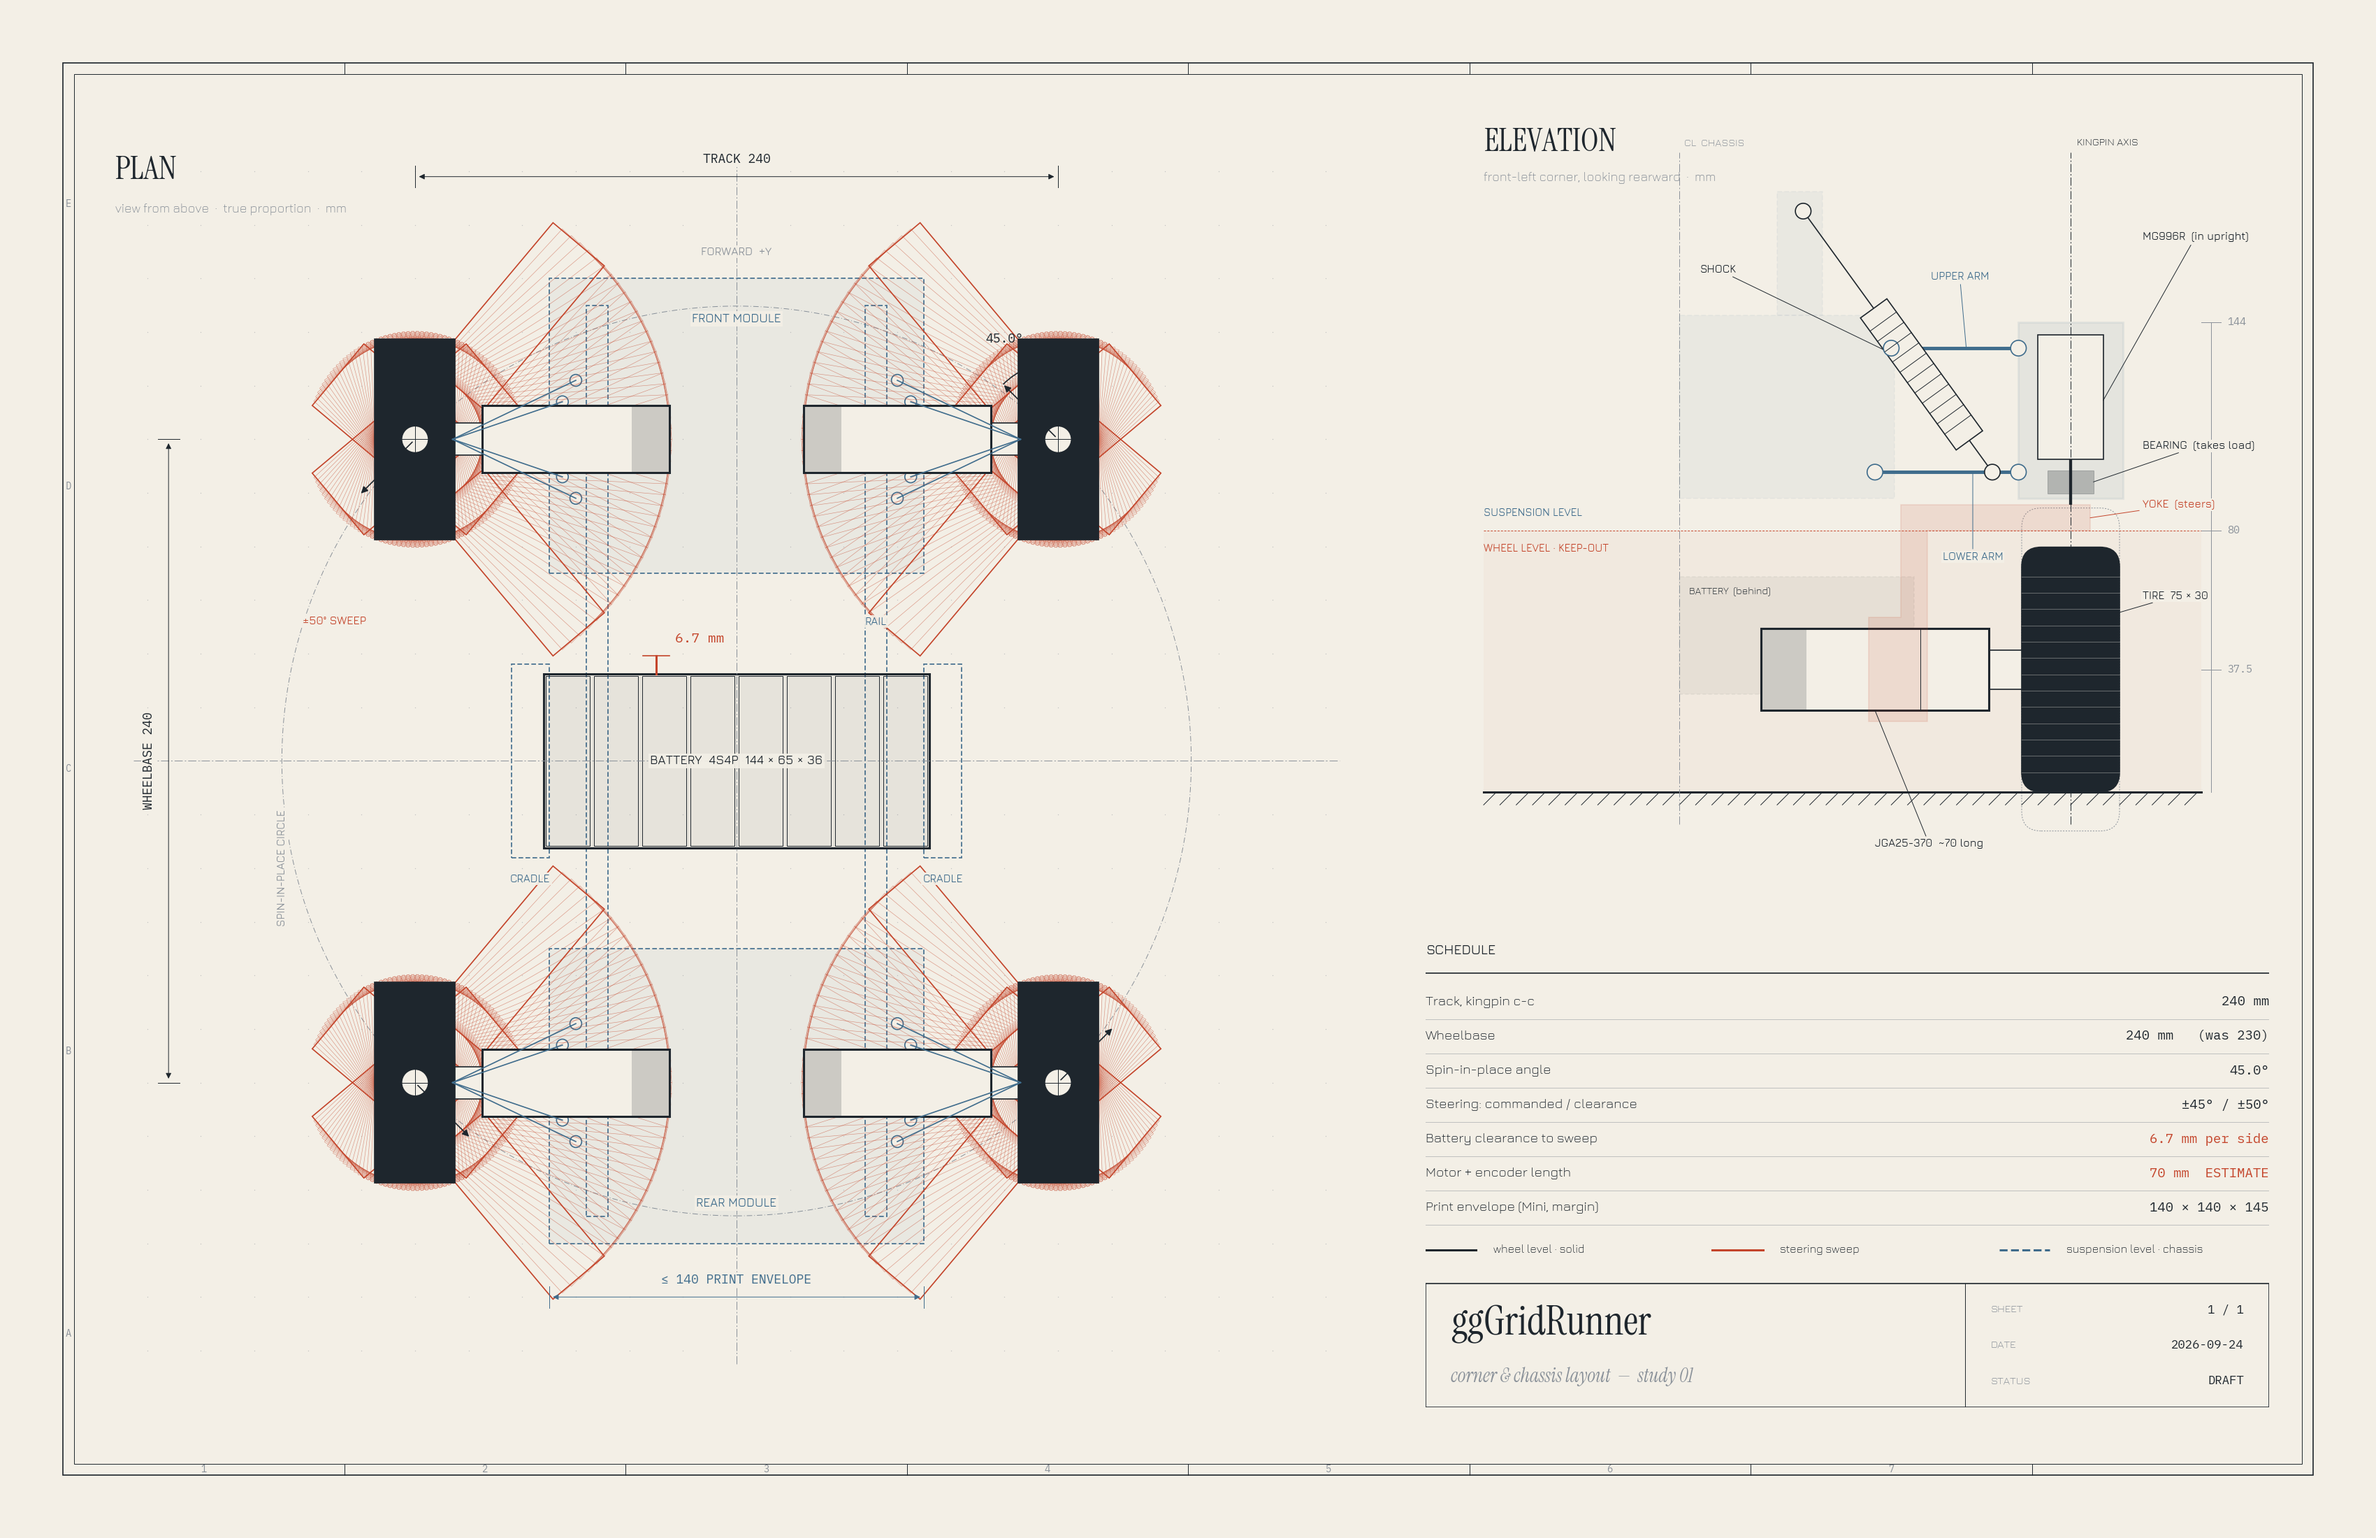
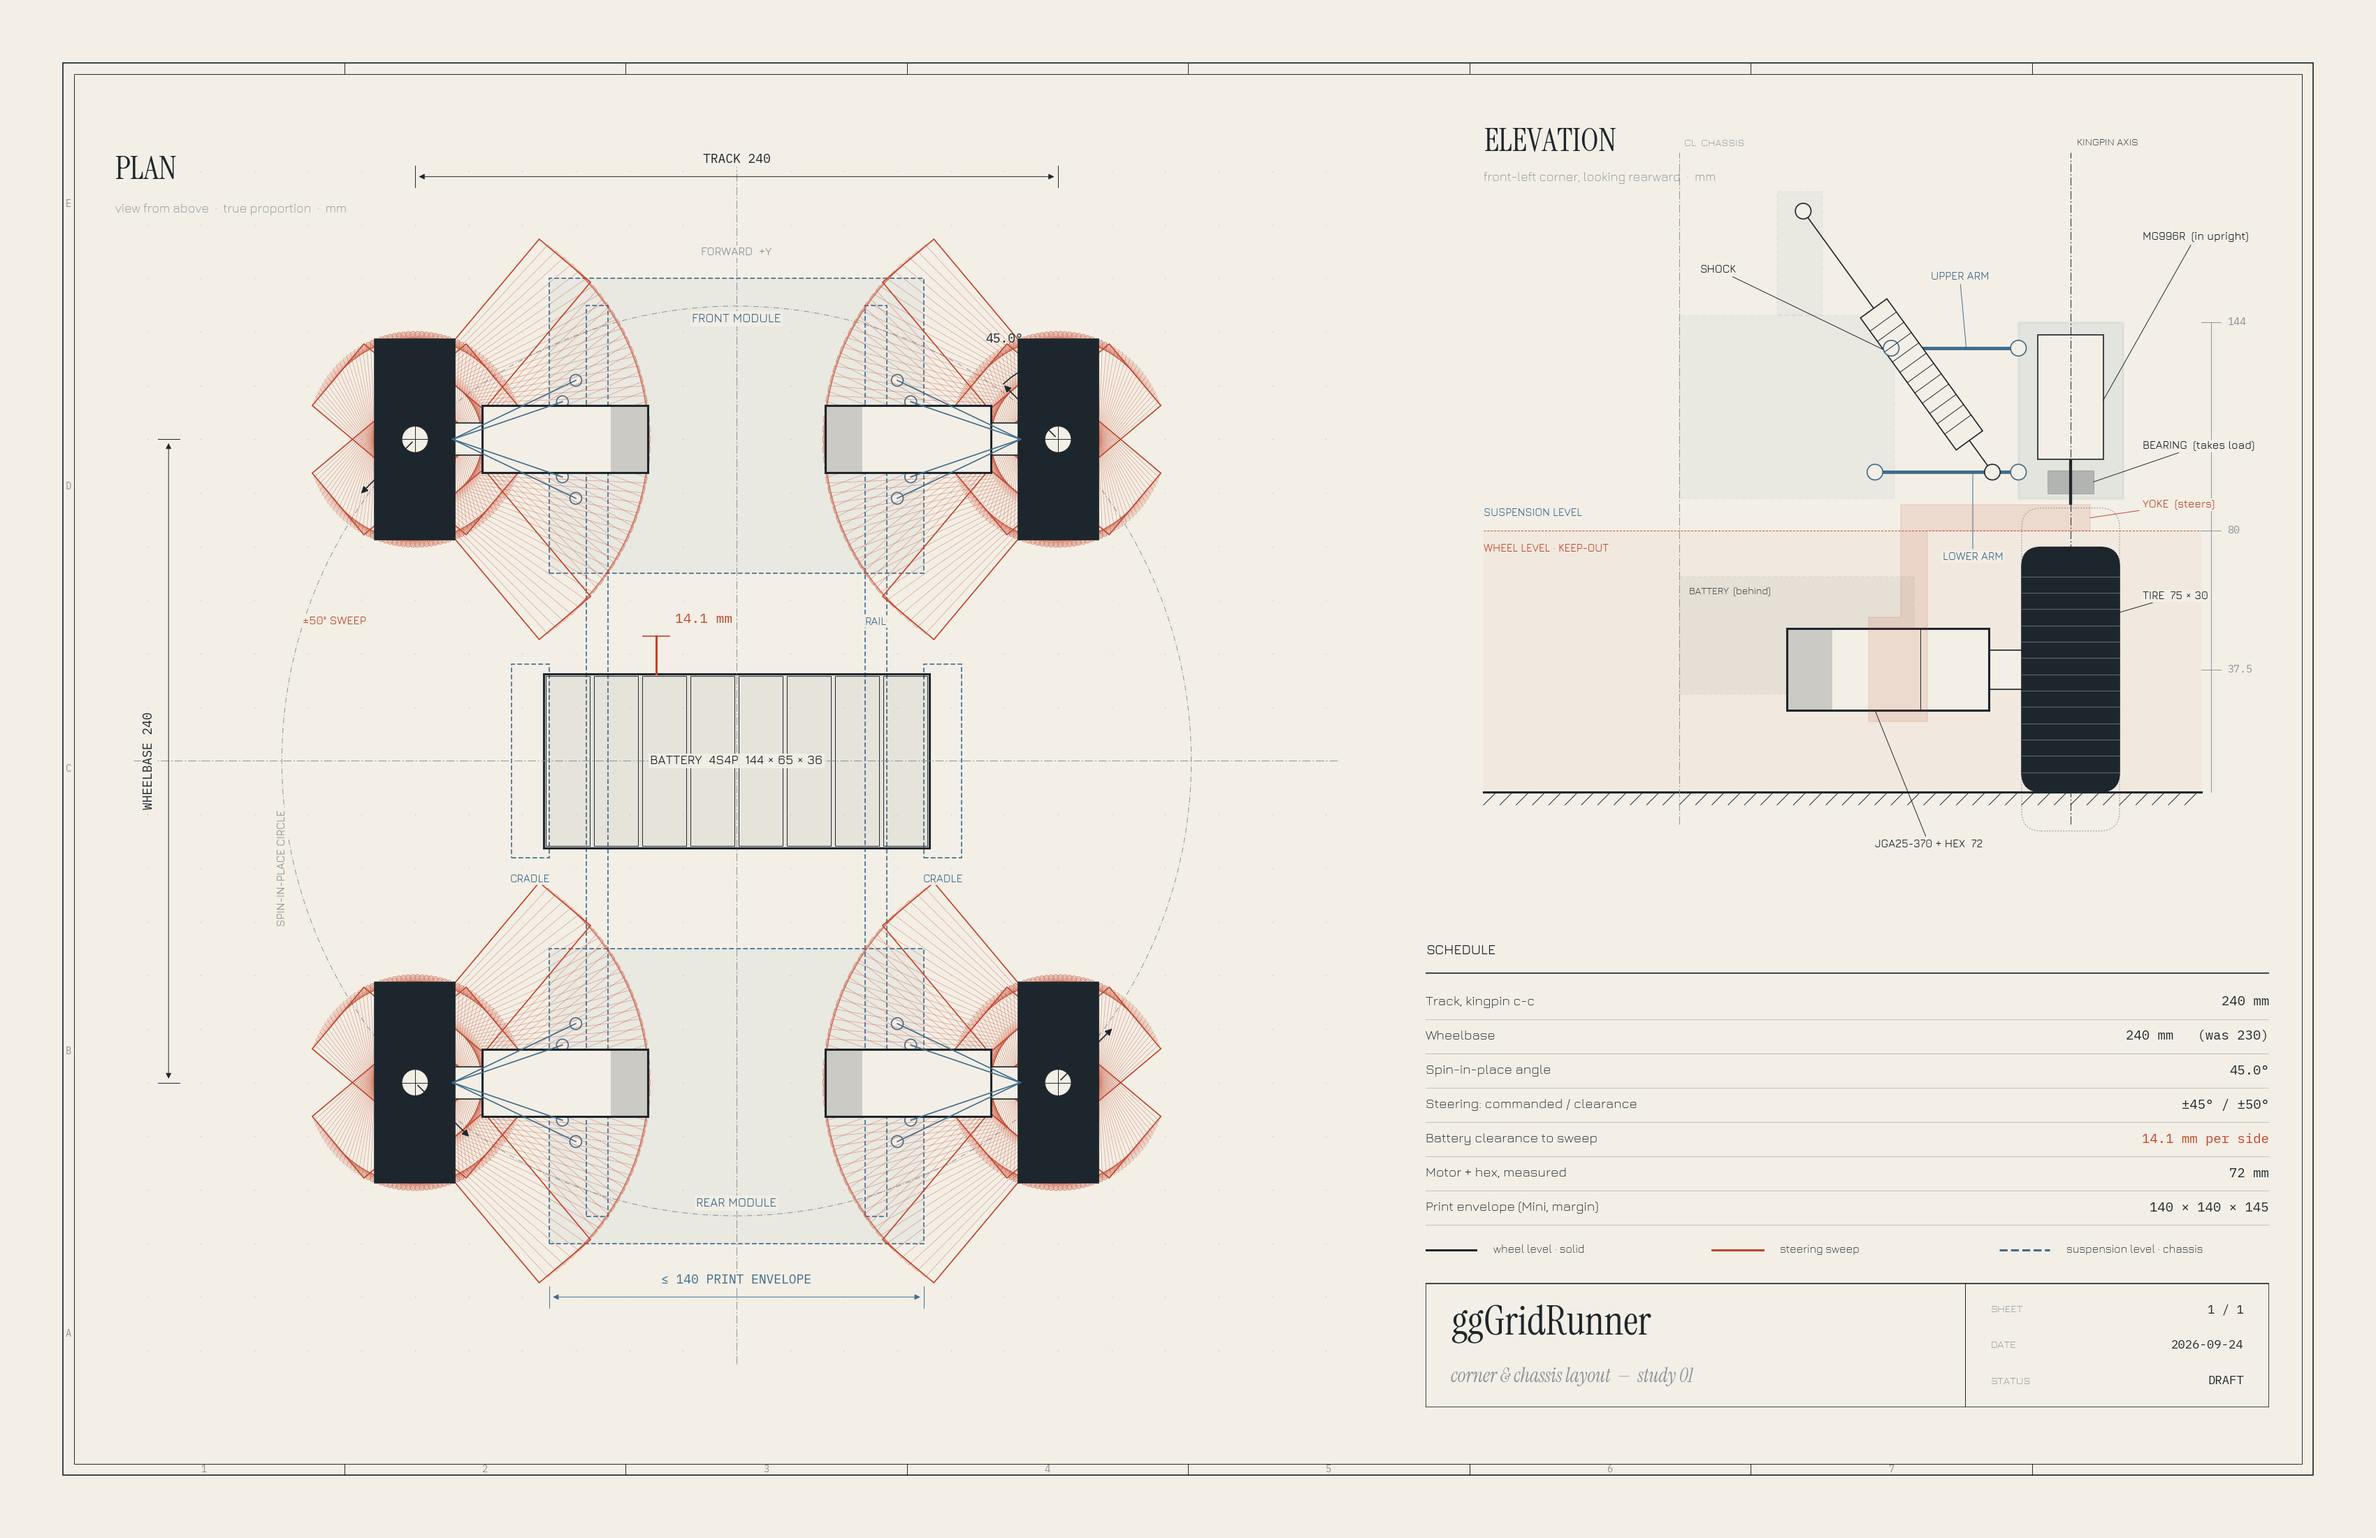
fix(simulation): use measured 72 mm motor+hex length in layout study
Battery clearance at 240x240 rises from 6.7 to 14.1 mm/side. Also fix
the font fallback: a bare "sans-serif" string was parsed as a
fontconfig pattern and crashed when the drafting fonts were absent.

diff --git a/simulation/corner_layout_study.py b/simulation/corner_layout_study.py
@@ -2,7 +2,7 @@
 
 Draws the +/-STEER sweep of each tire + motor unit (4WIS, one servo per corner) and
 reports how much the crosswise battery clears the nearest sweep. Parameters are
-design targets from the chassis brainstorm; MOTOR_L is an estimate until measured.
+design targets from the chassis brainstorm; motor + hex length (72 mm) is measured.
 
     python simulation/corner_layout_study.py
 """
@@ -25,7 +25,7 @@ def font(name, family="sans-serif"):
     if os.path.exists(path):
         fm.fontManager.addfont(path)
         return fm.FontProperties(fname=path)
-    return fm.FontProperties(family=family)
+    return fm.FontProperties(family=[family])
 
 
 LABEL = font("Jura-Light.ttf")
@@ -41,7 +41,7 @@ HAIR, THIN, MED = 0.35, 0.6, 1.1
 T, WB = 240.0, 240.0            # track, wheelbase (kingpin centres)
 TIRE_D, TIRE_W = 75.0, 30.0
 ADAPT = 10.0                    # 4 mm -> 12 mm hex adapter
-MOTOR_L, MOTOR_D = 70.0, 25.0   # JGA25-370 + encoder (ESTIMATE)
+MOTOR_L, MOTOR_D = 62.0, 25.0   # JGA25-370 + encoder; ADAPT + MOTOR_L = 72 measured
 STEER = 50.0                    # mechanical clearance, deg
 BAT_X, BAT_Y, BAT_Z = 144.0, 65.0, 36.0
 RIDE = 30.0
@@ -325,7 +325,7 @@ elab(KX + 10, 120, "MG996R  (in upright)", 142, 170)
 elab(KX + 7, UP0 + 5, "BEARING  (takes load)", 142, 106)
 elab(KX + 6, 84, "YOKE  (steers)", 142, 88, col=VERM)
 elab(KX + 15, 55, "TIRE  75 × 30", 142, 60)
-elab(KX - 60, AXLE - 12.5, f"JGA25-370  ~{MOTOR_L:.0f} long", 60, -16)
+elab(KX - 60, AXLE - 12.5, f"JGA25-370 + HEX  {ADAPT + MOTOR_L:.0f}", 60, -16)
 elab(90, LA_Z, "LOWER ARM", 90, 72, col=STEEL, ha="center")
 elab(88, UA_Z, "UPPER ARM", 86, 158, col=STEEL, ha="center")
 elab(72, 131, "SHOCK", 12, 160, col=INK, ha="center")
@@ -351,7 +351,7 @@ rows = [
     ("Spin-in-place angle", f"{np.degrees(np.arctan(WB / T)):.1f}°"),
     ("Steering: commanded / clearance", f"±45° / ±{STEER:.0f}°"),
     ("Battery clearance to sweep", f"{CLEAR:.1f} mm per side"),
-    ("Motor + encoder length", f"{MOTOR_L:.0f} mm  ESTIMATE"),
+    ("Motor + hex, measured", f"{ADAPT + MOTOR_L:.0f} mm"),
     ("Print envelope (Mini, margin)", f"{ENV:.0f} × {ENV:.0f} × 145"),
 ]
 tb.text(0, 97, "SCHEDULE", fontproperties=LABEL_M, fontsize=7, color=INK, va="top")
